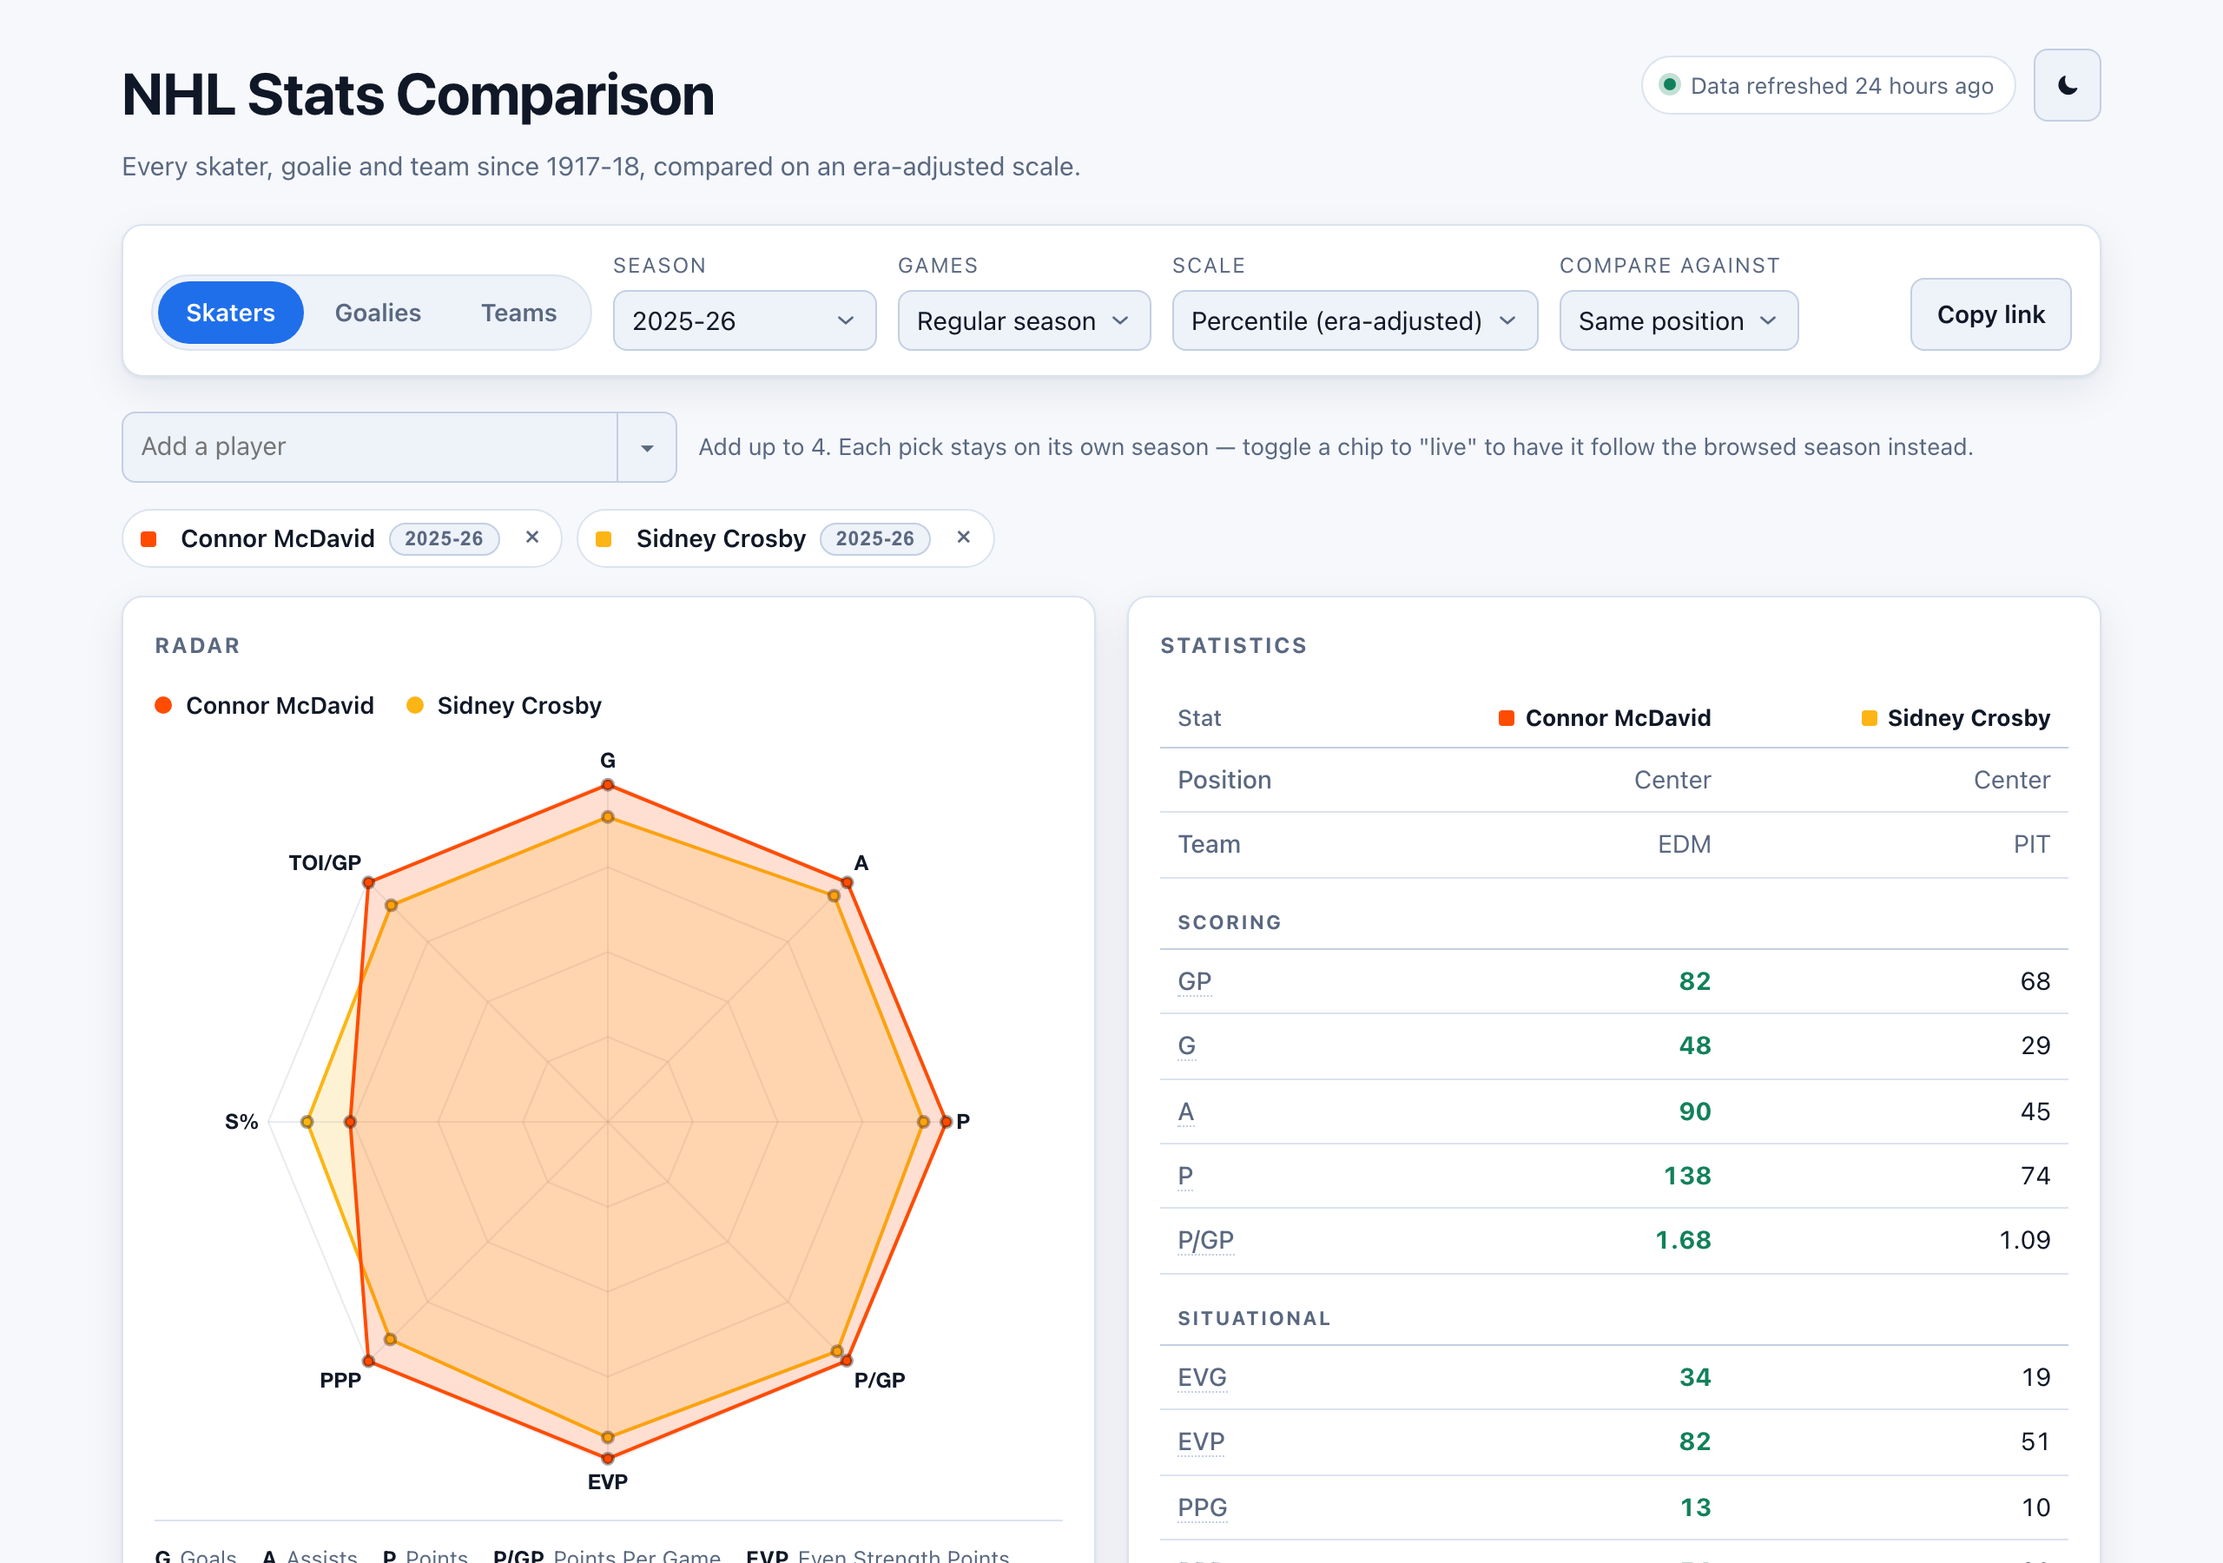
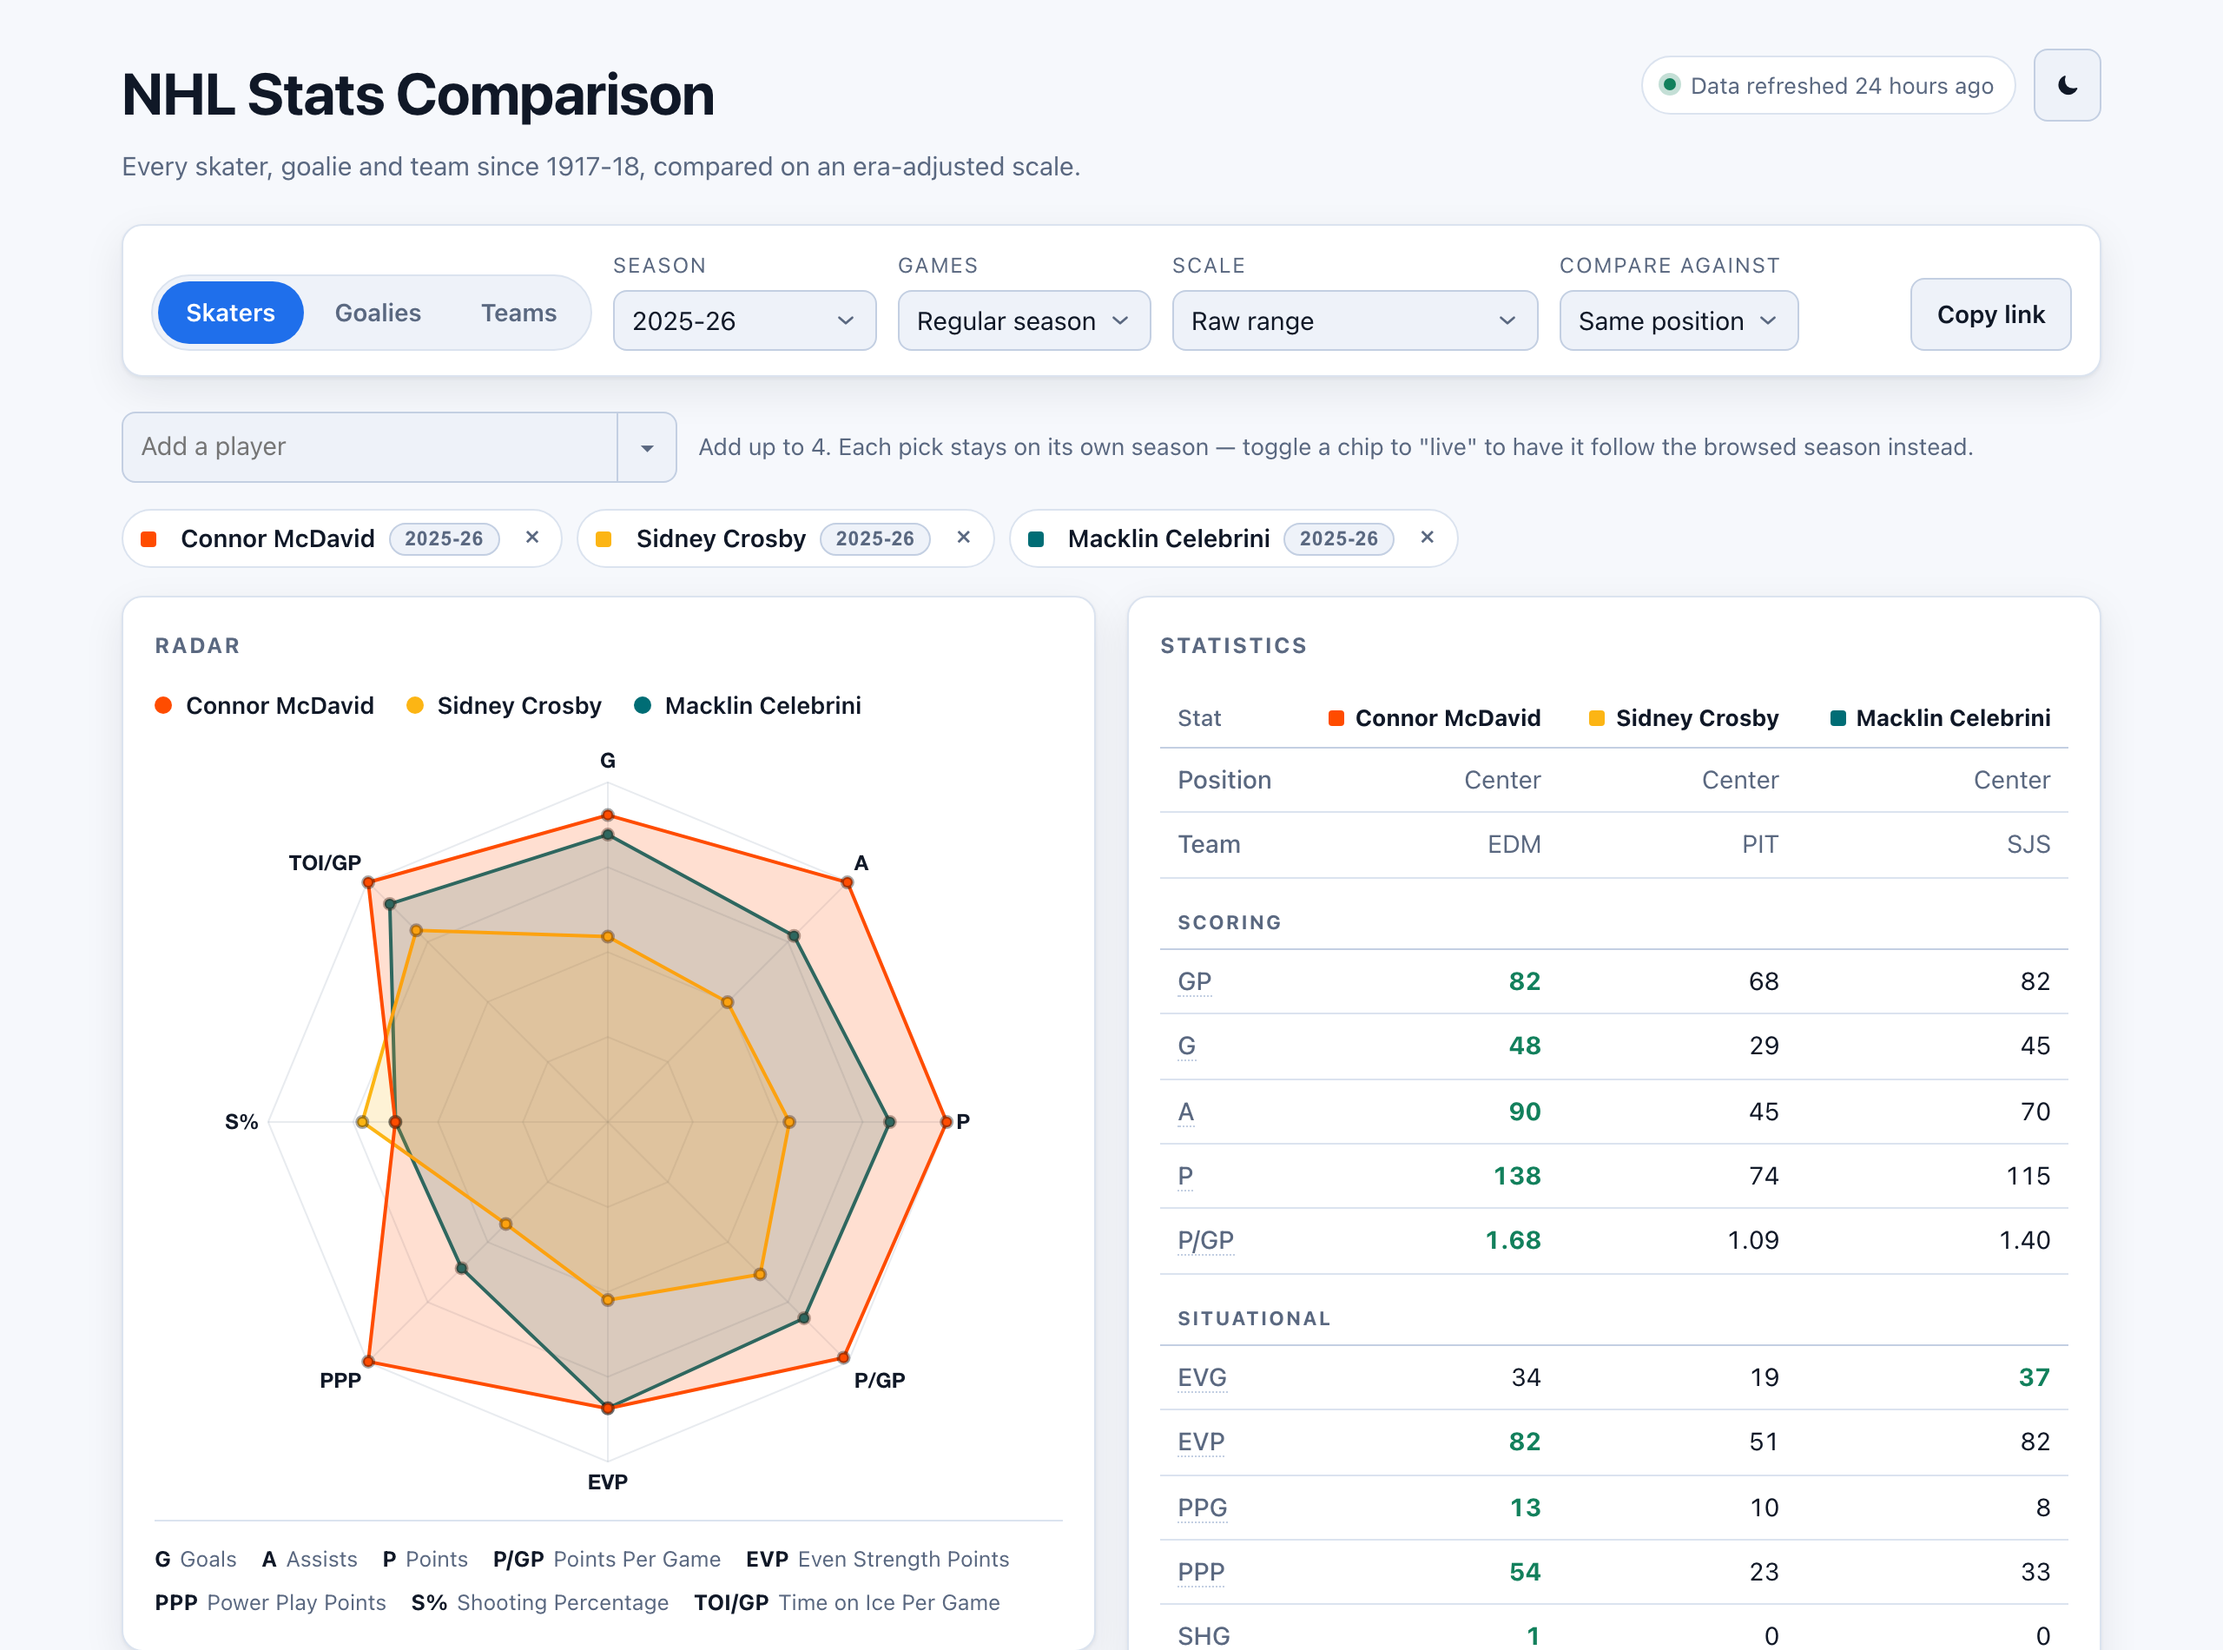
Update README screenshot to a three-player comparison

diff --git a/README.md b/README.md
@@ -4,7 +4,7 @@ Compare any NHL skater, goalie, or team from any season since 1917-18 on an era-
 
 **[View the live site →](https://nickgrichine.github.io/NHL-Stats-Comparison/)**
 
-![Screenshot of the app comparing Connor McDavid and Sidney Crosby](docs/screenshot.png)
+![Screenshot of the app comparing Connor McDavid, Sidney Crosby, and Macklin Celebrini](docs/screenshot.png)
 
 ## Overview
 
